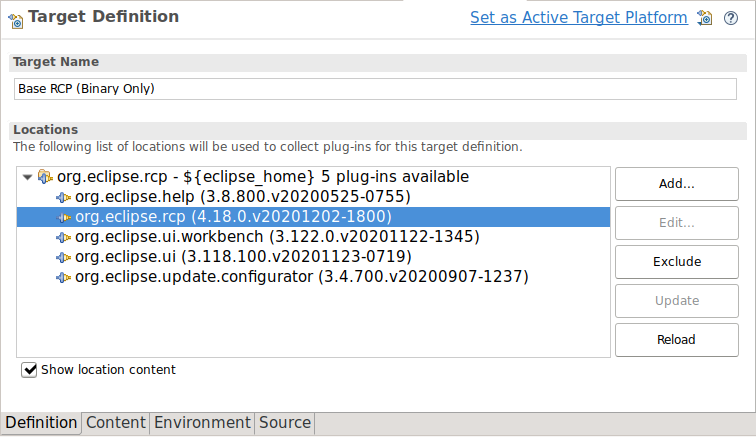
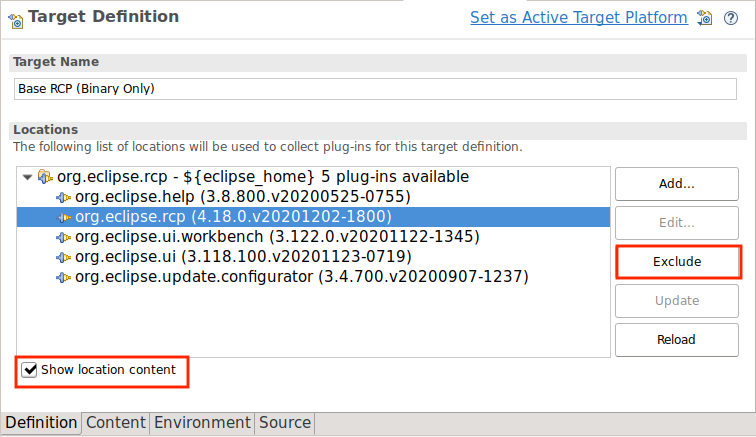
Bug 571510 - N&N for 4.19
Review, edits for 4.19

Changed region(s): [[0.0, 0.8032, 0.2738, 0.8924], [0.791, 0.5652, 1.0, 0.6545], [0.8214, 0.5355, 0.9735, 0.5652]]

diff --git a/4.19/jdt.html b/4.19/jdt.html
@@ -88,7 +88,7 @@ ul {padding-left: 13px;}
   <tr id="add-catch-to-try-with-resources-assists"> <!-- https://bugs.eclipse.org/bugs/show_bug.cgi?id=570762 -->
     <td class="title"><a href="#add-catch-to-try-with-resources-assists">Add catch clause to try-with-resources assists</a></td>
     <td class="content">
-      There are multiple assists to surround auto-closeable statements in a try-with-resources statement including <b>Surround with -> Try-with-resources Block</b>.  Now, all forms will add
+      There are multiple assists to surround auto-closeable statements in a try-with-resources statement including <b>Surround with &gt; Try-with-resources Block</b>.  Now, all forms will add
       a <code>catch</code> clause for any exceptions (such as <code>IOException</code>) thrown by the auto-close if not already handled via an existing <code>catch</code> clause 
       or <code>throws</code> directive.  In the case where the existing code catches or throws an exception that sub-classes the exceptions of the new <code>catch</code> clause, an 
       additional <code>catch</code> clause will be added to rethrow the exception to ensure code logic remains consistent.
@@ -97,12 +97,12 @@ ul {padding-left: 13px;}
     </td>
   </tr>
   <tr id="create-permitted-type-declaration"> <!-- https://bugs.eclipse.org/bugs/show_bug.cgi?id=570440 -->
-    <td class="title"><a href="#create-permitted-type-declaration">Create permitted type declaration</a></td>
+    <td class="title"><a href="#create-permitted-type-declaration">Quick fix to create permitted type declaration</a></td>
     <td class="content">
-      You can use the following quick fixes (<strong>Ctrl+1</strong>) to create a new permitted class or interface declaration:
+      You can use the following quick fixes (<b>Ctrl+1</b>) to create a new permitted class or interface declaration:
       <p><img src="images/create-permitted-type-declaration.png" alt=""/></p>
       <p>
-      The created type will declare the sealed type as its super type and 
+      The created type will declare the <code>sealed</code> type as its super type and 
       it can be declared as final, non-sealed, or sealed with the available quick fixes for further inheritance control.
       </p>
     </td>
@@ -110,7 +110,7 @@ ul {padding-left: 13px;}
   <tr id="java-feature"> <!-- https://bugs.eclipse.org/bugs/show_bug.cgi?id=569711 -->
     <td class="title"><a href="#java-feature">Java Feature clean ups</a></td>
     <td class="content">
-      A new tab named <b>Java Feature</b> has been added to the clean up preferences. It lists the clean up options that introduce the use of language features from different Java versions. Relevant clean up options from other tabs have also been moved to this new tab. 
+      A new tab named <b>Java Feature</b> has been added to the <b>Clean Up </b>preferences. It lists the clean up options that introduce the use of language features from different Java versions. Relevant clean up options from other tabs have also been moved to this new tab. 
       <p>
         You can use these clean ups while upgrading the Java version in your code.
       </p>
@@ -493,7 +493,7 @@ int i = j;</span>
   <tr id="source-fixing"> <!-- https://bugs.eclipse.org/bugs/show_bug.cgi?id=570773 -->
     <td class="title"><a href="#source-fixing">Source Fixing clean ups</a></td>
     <td class="content">
-      A new tab named <b>Source Fixing</b> has been added to the clean up preferences. It lists the clean up options that fixes the behavior of the code. The <b>Compare with != 0 for bitwise expression</b> clean up option from <b>Code style</b> tab have also been moved to this new tab. 
+      A new tab named <b>Source Fixing</b> has been added to the <b>Clean Up</b> preferences. It lists the clean up options that fixes the behavior of the code. The <b>Compare with != 0 for bitwise expression</b> clean up option from <b>Code style</b> tab have also been moved to this new tab. 
       <p>
         ⚠ Use it carefully. You may get an unexpected behavior. It may trigger zombie code. A zombie code is a dead code that is dead because an error occurs before. The day someone fixes the error, the zombie code comes back to life and alters the behavior. Although most of the cleanups need review, those ones need testing.
       </p>
@@ -504,9 +504,7 @@ int i = j;</span>
   <tr id="invert-equals"> <!-- https://bugs.eclipse.org/bugs/show_bug.cgi?id=571184 -->
     <td class="title"><a href="#invert-equals">Object.equals() on non null clean up</a></td>
     <td class="content">
-      <p>
       A new clean up has been added that inverts calls to <code>Object.equals(Object)</code> and <code>String.equalsIgnoreCase(String)</code> to avoid useless null pointer exception.
-      </p>
       <p>
         The caller must be nullable.
       </p>
@@ -536,7 +534,7 @@ int i = j;</span>
     <td class="content">
       A new clean up has been added that fixes <code>Comparable.compareTo()</code> usage.
       <p>
-        The developer is not supposed to predict the <code>1</code> and <code>-1</code> values; them is supposed to get zero or a value lesser or greater than zero.
+        The code is not supposed to predict the <code>1</code> and <code>-1</code> values; it is supposed to get zero or a value lesser or greater than zero.
       </p>
       <p>
         Beware! The behavior may change if you implement a custom comparator!
@@ -583,8 +581,8 @@ int i = j;</span>
       A new option named <b>Restricted identifiers</b> has been added under Java category in <b>Java &gt; Editor &gt; Syntax Coloring</b> preferences.
       <p>
        Some identifiers (e.g. var, yield, record etc.) are restricted identifiers because they are not allowed in some contexts.
-       Semantic highlighting options for such identifiers can be controlled by the element <strong>Restricted identifiers</strong> 
-       under <strong>Java</strong> category in <strong>Java</strong> &gt; <strong>Editor</strong> &gt; <strong>Syntax Coloring</strong> preference page.
+       Semantic highlighting options for such identifiers can be controlled by the element <b>Restricted identifiers</b> 
+       under <b>Java</b> category in <b>Java &gt; Editor &gt; Syntax Coloring</b> preference page.
       </p>
       <p><img src="images/restricted-identifier-preference.png" alt=""/></p>
     </td>
@@ -600,13 +598,13 @@ int i = j;</span>
         You can now apply the same concept for another kind of classes that should not be edited: generated source code.
       </p>
       <p>
-        In the <strong>Java Build Path</strong> dialog, also source folders now have a node "External annotations"
+        In the <b>Java Build Path</b> dialog, also source folders now have a node <b>External annotations</b> 
         where a path to Eclipse External Annotation files (.eea) can be configured.
       </p>
       <p><img src="images/annotate-sources-config.png" alt="Configure Annotation Path"/></p>
       <p>
         Given a project that is configured for annotation based null analysis, and given a Java class
-        inside a source folder configured for external annotations, the editor now offers a quick assist (<strong>Ctrl+1</strong>)
+        inside a source folder configured for external annotations, the editor now offers a quick assist (<b>Ctrl+1</b>)
         for annotating individual type references in the signatures of methods and fields.
       </p>
       <p><img src="images/annotate-sources-assist.png" alt="Configure Annotation Path"/></p>

diff --git a/4.19/pde.html b/4.19/pde.html
@@ -48,7 +48,7 @@ ul {padding-left: 13px;}
   <tr id="pde-editor-enhancements"> <!--https://bugs.eclipse.org/bugs/show_bug.cgi?id=568865 -->
     <td class="title"><a href="#pde-editor-enhancements">Include/exclude bundles directly from the target definition view</a></td>
     <td class="content">
-      It is now possible to include and exclude a bundle directly from the target definition view. You should check the <b>Show location content</b> button, select a bundle and then the <b>Remove</b> button turns into an <b>Exclude</b> action.
+      It is now possible to include and exclude a bundle directly from the <b>Target Definition</b> view. You should check the <b>Show location content</b> button, select a bundle and then the <b>Remove</b> button turns into an <b>Exclude</b> action.
    	  <p>
        <img src="images/pde_excl_incl_01.png" alt="" />
       </p>
@@ -60,7 +60,7 @@ ul {padding-left: 13px;}
       <p>
        <img src="images/pde_excl_incl_03.png" alt="" />
       </p>
-      If multiple items are selected and are of different state, the button turns into a toggle one.
+      If multiple items are selected and are of different state, the button turns into a <b>Toggle</b> one.
        <p>
        <img src="images/pde_excl_incl_04.png" alt="" />
       </p>
@@ -90,7 +90,7 @@ ul {padding-left: 13px;}
    <tr id="pde-api-exporttext"> <!--https://bugs.eclipse.org/bugs/show_bug.cgi?id=570433 -->
     <td class="title"><a href="#pde-api-exporttext">Improved text for exported packages in the editor</a></td>
     <td class="content">
-   	  <p>The text of exported packages have been improved and the reference to the strict mode has been removed, as Equinox does not support this mode since a while. 
+   	  <p>The text for <b>Exported Packages</b> was improved and the reference to the strict mode was removed, as Equinox does not support this mode since a while. 
    	  </p>
    	   <p>
        <img src="images/pde-export-text.png" alt="" />
@@ -110,8 +110,8 @@ ul {padding-left: 13px;}
   <tr id="pde-api-enhancements"> <!--https://bugs.eclipse.org/bugs/show_bug.cgi?id=568865 -->
     <td class="title"><a href="#pde-api-enhancements">New advanced editing capabilities for custom target platforms</a></td>
     <td class="content">
-    <p>The API for adding custom Target-Platform-Locations has been refactored and the existing implementation was cleaned up to support more advanced editing capabilities.
-     This has been done by merging the functionality of the previous interfaces <code>ITargetLocationEditor</code> and <code>ITargetLocationUpdater</code>. They have been incorporated into the new interface <code>ITargetLocationHandler</code>,
+    <p>The API for adding custom Target-Platform-Locations was refactored and the existing implementation was cleaned up to support more advanced editing capabilities.
+     This was done by merging the functionality of the previous interfaces <code>ITargetLocationEditor</code> and <code>ITargetLocationUpdater</code>. They have been incorporated into the new interface <code>ITargetLocationHandler</code>,
      and now you only need to implement this interface and override the default implemented methods as desired.
     </p>
     <p>

diff --git a/4.19/platform.html b/4.19/platform.html
@@ -50,10 +50,10 @@ ul {padding-left: 13px;}
   </tr>
 
   <tr id="editors-horizontal-scroll"> <!-- https://bugs.eclipse.org/bugs/show_bug.cgi?id=205137 -->
-    <td class="title">Horizontal Scrolling in Text Editors</td>
+    <td class="title">Horizontal Scrolling in Text Editor</td>
     <td class="content">
-      Text Editors can be scrolled horizontally using Shift+Mouse Wheel and touchpad gestures on Windows.
-      Horizontal scrolling with trackpad already works on Linux and macOS.
+      You can now scroll horizontally in the <b>Text Editor</b> using <b>Shift+Mouse Wheel</b> and <b>touchpad gestures</b> on Windows.
+      Horizontal scrolling with touchpad already works on Linux and macOS.
     </td>
   </tr>
   <!-- ******************* End of Text Editors ************************************* -->
@@ -66,7 +66,7 @@ ul {padding-left: 13px;}
   </tr>
 
   <tr id="console-find-next-find-previous"> <!-- https://bugs.eclipse.org/bugs/show_bug.cgi?id=45017 -->
-    <td class="title">Find Next and Find Previous in Console View</td>
+    <td class="title">Find Next/Previous in Console View</td>
     <td class="content">
       In the <b>Console</b> view, you can repeat your last search in the forward or backward direction 
       in the following ways: 
@@ -97,7 +97,7 @@ ul {padding-left: 13px;}
 	when the launched process is terminated (for example by clicking the terminate button).
     <p>
     It is now possible to configure in the Launch-Configuration if the child-processes of a launched process should be terminated too or if they should stay alive, in case the launched processes is terminated.
-    You can control this with the check-box <b>Terminate child-processes if terminating the launched process</b> in the <b>Common</b> tab of the Run/Debug configurations dialog.
+    You can control this with the check-box <b>Terminate child-processes if terminating the launched process</b> in the <b>Common</b> tab of the <b>Run/Debug Configurations</b> dialog.
     By default this check-box is selected and child-processes are termianted too. 
     </p>
       <p>
@@ -117,7 +117,7 @@ ul {padding-left: 13px;}
   <tr id="browsers-windows-update"> <!-- https://bugs.eclipse.org/bugs/show_bug.cgi?id=564999 -->
     <td class="title">External browsers on Windows</td>
     <td class="content">
-      On Windows, the list of recognized external browsers has been updated to include:
+      On Windows, the list of recognized External web browsers has been updated to include:
       
       <ul>
       <li><b>Microsoft Edge</b> (<i>%%ProgramFiles(x86)%</i>\Microsoft\Edge\Application\msedge.exe)</li>

diff --git a/4.19/platform_isv.html b/4.19/platform_isv.html
@@ -74,8 +74,8 @@ ul {padding-left: 13px;}
   <tr id="icu-e4-feature"> <!-- https://bugs.eclipse.org/bugs/show_bug.cgi?id=569421 -->
    <td class="title"><a href="#icu-e4-feature">Moved com.ibm.icu from org.eclipse.e4.rcp to org.eclipse.rcp feature</a></td>
     <td class="content">
-      As the usage of the <i>com.ibm.icu</i> plug-in is planned to be removed from the platform, it has been removed from the <i>org.eclipse.e4.rcp</i> feature as e4 RCP applications do not require it since the 4.18 release.
-      It has been added to the <i>org.eclipse.rcp></i> features for now to ensure e3 applications which may use it and the Eclipse IDE to work correctly.
+      As the usage of the <b>com.ibm.icu</b> plug-in is planned to be removed from the platform, it has been removed from the <b>org.eclipse.e4.rcp</b> feature as e4 RCP applications do not require it since the 4.18 release.
+      It has been added to the <b>org.eclipse.rcp</b> features for now to ensure e3 applications which may use it and the Eclipse IDE to work correctly.
       If your e4 RCP application uses it, you can include it in your custom feature.
     </td>
   </tr>
@@ -86,14 +86,14 @@ ul {padding-left: 13px;}
     <td id="SWT" class="section" colspan="2"><h2>SWT Changes</h2></td>
   </tr>
   <tr id="resource-disposal-tracking"> <!-- https://bugs.eclipse.org/bugs/show_bug.cgi?id=569752 -->
-   <td class="title"><a href="#resource-disposal-tracking">Resource disposal tracking</a></td>
+   <td class="title"><a href="#resource-disposal-tracking">API for Resource disposal tracking</a></td>
     <td class="content">
       New <code>org.eclipse.swt.graphics.Resource.setNonDisposeHandler</code> API
       is added which allows to track SWT resources that were not properly disposed.
       The API accepts a custom <code>Consumer&lt;Error></code> callback to
       receive detected errors.
       <p>
-        Alternatively, <code>"org.eclipse.swt.graphics.Resource.reportNonDisposed"</code>
+        Alternatively, <code>org.eclipse.swt.graphics.Resource.reportNonDisposed</code>
         system property can be set to <code>true</code>. In this case, SWT will report
         these errors to <code>stderr</code> without the need to modify application's
         code.

diff --git a/4.19/index.html b/4.19/index.html
@@ -19,11 +19,9 @@
     The Eclipse installer and other packages can be downloaded from the <a href="https://www.eclipse.org/downloads/packages/installer">Eclipse Installer</a> page.
   </p>
   
-  <!--
   <p>
-  	The 4.19 release notes for the Eclipse SDK project can be found <a href="https://www.eclipse.org/eclipse/development/readme_eclipse_4.19.php">here</a>.
+   The 4.19 release notes for the Eclipse SDK project can be found <a href="https://www.eclipse.org/eclipse/development/readme_eclipse_4.19.php">here</a>.
   </p>
-  -->
   
   <p>Here are some of the more noteworthy items available in this release.</p>
 
